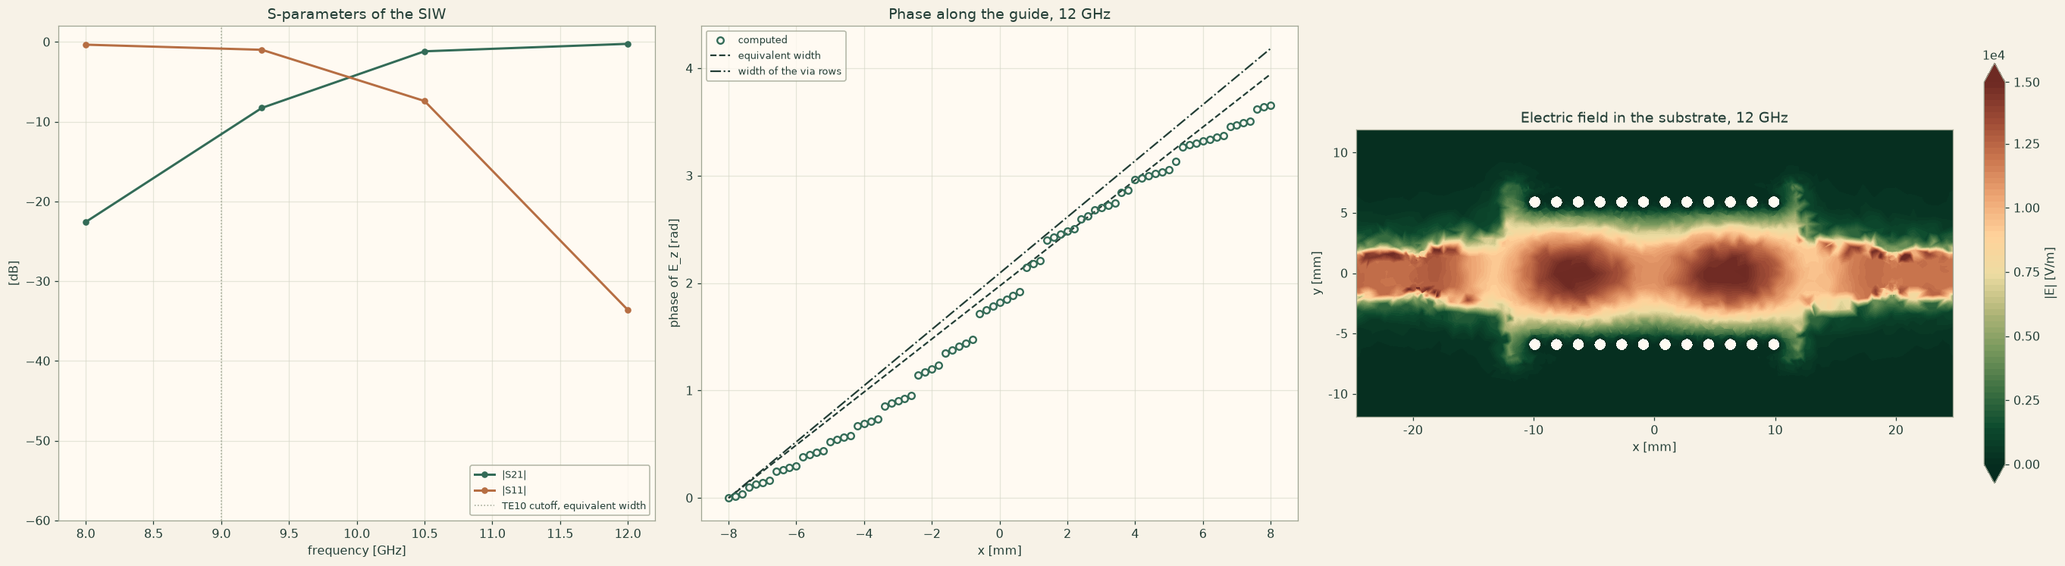
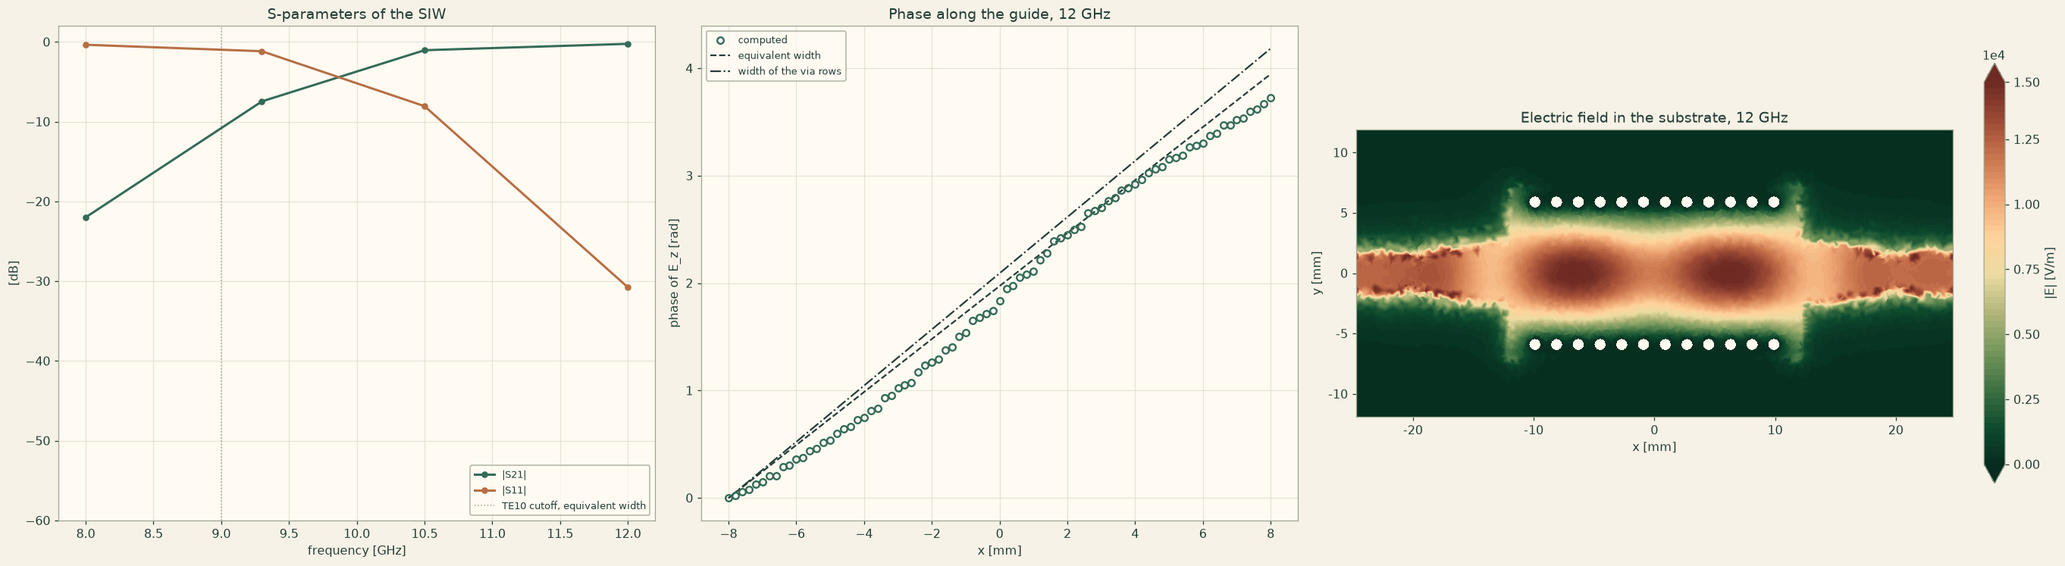
Update the via-fenced waveguide with 94,336 edge coefficients

diff --git a/examples/notebooks/substrate_integrated_waveguide.html b/examples/notebooks/substrate_integrated_waveguide.html
@@ -22,7 +22,7 @@
 <div class="layout">
 <details class="menu"><summary>Menu</summary><nav class="side" aria-label="Documentation"><a class="" href="../../index.html">Overview</a><a class="" href="../../quickstart.html">Quickstart</a><p class="group">Examples</p><a class="" href="../../examples/index.html">Example library</a><a class="" href="../../examples/method-swap.html">One model, five discretizations</a><a class="" href="../../examples/cantilever.html">A 3D cantilever</a><a class="" href="../../examples/custom-equation.html">Your own equation</a><p class="group">Guide</p><p class="part">Start here</p><a class="" href="../../guide/how-to-use-this-guide.html"><span class="num"></span> How to use this guide</a><p class="part">Part I · From model to notebook</p><a class="" href="../../guide/1-set-up-the-notebook.html"><span class="num">1</span> Set up the notebook</a><a class="" href="../../guide/2-transient-radiation-and-vibration.html"><span class="num">2</span> Transient radiation and vibration</a><a class="" href="../../guide/3-three-spatial-studies.html"><span class="num">3</span> Three spatial studies</a><a class="" href="../../guide/4-read-visualize-and-export-results.html"><span class="num">4</span> Read, visualize and export results</a><p class="part">Part II · Physics model selection</p><a class="" href="../../guide/5-build-a-first-case-in-each-physics-package/index.html"><span class="num">5</span> Build a first case in each physics package</a><a class="" href="../../guide/6-worked-physics-and-service-recipes/index.html"><span class="num">6</span> Worked physics and service recipes</a><p class="part">Part III · Select and combine numerical methods</p><a class="" href="../../guide/7-numerical-configuration-and-spatial-operators.html"><span class="num">7</span> Numerical configuration and spatial operators</a><a class="" href="../../guide/8-solvers-time-integration-and-coupled-fields.html"><span class="num">8</span> Solvers, time integration and coupled fields</a><a class="" href="../../guide/9-worked-numerical-comparisons/index.html"><span class="num">9</span> Worked numerical comparisons</a><a class="" href="../../guide/10-executable-numerical-recipes/index.html"><span class="num">10</span> Executable numerical recipes</a><a class="" href="../../guide/11-define-and-solve-your-own-equation.html"><span class="num">11</span> Define and solve your own equation</a><a class="" href="../../guide/12-diagnose-a-notebook-result.html"><span class="num">12</span> Diagnose a notebook result</a><a class="" href="../../guide/13-coverage-and-navigation-by-symbol/index.html"><span class="num">13</span> Coverage and navigation by symbol</a><p class="part">API reference</p><a class="" href="../../reference/a-physics-api-reference/index.html"><span class="num">A</span> Physics API reference</a><a class="" href="../../reference/b-numerical-api-reference/index.html"><span class="num">B</span> Numerical API reference</a><a class="" href="../../reference/c-exposed-operator-and-service-namespaces/index.html"><span class="num">C</span> Exposed operator and service namespaces</a><p class="group">Teaching</p><a class="" href="../../teaching/index.html">For instructors</a><a class="" href="../../teaching/course.html">A 14-week lab course</a><a class="" href="../../teaching/exercises.html">Exercise sheets</a><p class="group">Trust and terms</p><a class="" href="../../verification.html">Verification</a><a class="" href="../../plans.html">Plans and licence</a></nav></details>
 <div class="side-wrap"><nav class="side" aria-label="Documentation"><a class="" href="../../index.html">Overview</a><a class="" href="../../quickstart.html">Quickstart</a><p class="group">Examples</p><a class="" href="../../examples/index.html">Example library</a><a class="" href="../../examples/method-swap.html">One model, five discretizations</a><a class="" href="../../examples/cantilever.html">A 3D cantilever</a><a class="" href="../../examples/custom-equation.html">Your own equation</a><p class="group">Guide</p><p class="part">Start here</p><a class="" href="../../guide/how-to-use-this-guide.html"><span class="num"></span> How to use this guide</a><p class="part">Part I · From model to notebook</p><a class="" href="../../guide/1-set-up-the-notebook.html"><span class="num">1</span> Set up the notebook</a><a class="" href="../../guide/2-transient-radiation-and-vibration.html"><span class="num">2</span> Transient radiation and vibration</a><a class="" href="../../guide/3-three-spatial-studies.html"><span class="num">3</span> Three spatial studies</a><a class="" href="../../guide/4-read-visualize-and-export-results.html"><span class="num">4</span> Read, visualize and export results</a><p class="part">Part II · Physics model selection</p><a class="" href="../../guide/5-build-a-first-case-in-each-physics-package/index.html"><span class="num">5</span> Build a first case in each physics package</a><a class="" href="../../guide/6-worked-physics-and-service-recipes/index.html"><span class="num">6</span> Worked physics and service recipes</a><p class="part">Part III · Select and combine numerical methods</p><a class="" href="../../guide/7-numerical-configuration-and-spatial-operators.html"><span class="num">7</span> Numerical configuration and spatial operators</a><a class="" href="../../guide/8-solvers-time-integration-and-coupled-fields.html"><span class="num">8</span> Solvers, time integration and coupled fields</a><a class="" href="../../guide/9-worked-numerical-comparisons/index.html"><span class="num">9</span> Worked numerical comparisons</a><a class="" href="../../guide/10-executable-numerical-recipes/index.html"><span class="num">10</span> Executable numerical recipes</a><a class="" href="../../guide/11-define-and-solve-your-own-equation.html"><span class="num">11</span> Define and solve your own equation</a><a class="" href="../../guide/12-diagnose-a-notebook-result.html"><span class="num">12</span> Diagnose a notebook result</a><a class="" href="../../guide/13-coverage-and-navigation-by-symbol/index.html"><span class="num">13</span> Coverage and navigation by symbol</a><p class="part">API reference</p><a class="" href="../../reference/a-physics-api-reference/index.html"><span class="num">A</span> Physics API reference</a><a class="" href="../../reference/b-numerical-api-reference/index.html"><span class="num">B</span> Numerical API reference</a><a class="" href="../../reference/c-exposed-operator-and-service-namespaces/index.html"><span class="num">C</span> Exposed operator and service namespaces</a><p class="group">Teaching</p><a class="" href="../../teaching/index.html">For instructors</a><a class="" href="../../teaching/course.html">A 14-week lab course</a><a class="" href="../../teaching/exercises.html">Exercise sheets</a><p class="group">Trust and terms</p><a class="" href="../../verification.html">Verification</a><a class="" href="../../plans.html">Plans and licence</a></nav></div>
-<main id="content"><p class="crumbs"><a href="../../index.html">Docs</a> › <a href="../../examples/index.html">Examples</a> › A waveguide built into a circuit board</p><p class="eyebrow">Microwave engineering · 3D</p><h1>A waveguide built into a circuit board</h1><p class="lead">Two rows of plated vias guide a microwave signal through the board. Measure the signal on either side of cutoff and inspect its phase inside the guide.</p><div class="chips"><span>STEP import</span><span>Via fence</span><span>Nédélec elements</span><span>TEM ports</span></div><p class="note"><strong>Run locally with OneSimulation.</strong> The example downloads are free. Running them requires an activated runtime. Runtime Alpha 0.2.1a8 · CPython 3.13 on macOS (Apple Silicon), Ubuntu 22.04 (x86-64), and Windows x64. <a href="../../quickstart.html#need">Installation and activation</a> · <a href="../../plans.html">View pilot plans</a>. <a href="../../verification.html#scope">Scope of the reference checks</a>.</p><div class="button-row"><a class="button" href="../../notebooks/substrate_integrated_waveguide.ipynb" download>Download the notebook (.ipynb)</a><a class="button light" href="../../notebooks/substrate_integrated_waveguide.py" download>Download the script (.py)</a><a class="button light" href="../../notebooks/substrate_integrated_waveguide.step" download>Download the geometry (.step)</a><a class="button light" href="../../notebooks/substrate_integrated_waveguide_geometry.py" download>Download the geometry script (.py)</a></div><figure><a href="../../figures/library/substrate_integrated_waveguide.png" aria-label="Open result plot for A waveguide built into a circuit board at full size" style="display:inline-block;max-width:100%;cursor:zoom-in"><img loading="lazy" src="../../figures/library/substrate_integrated_waveguide.png" alt="A waveguide built into a circuit board"></a><figcaption>A waveguide built into a circuit board. Run the notebook to produce its own figures.</figcaption></figure><h2 id="what">What it computes</h2><p>A three-dimensional Maxwell model resolves the substrate, the microstrip tapers and the vias with conducting walls. Two ports measure reflection and transmission. A midplane slice shows the electric field at 12 GHz. The script that builds the STEP files comes with the notebook.</p><h2 id="checks">What it checks</h2><p>The equivalent rectangular guide predicts cutoff at 9.003 GHz. Transmission rises from −22.57 dB at 8 GHz to −0.23 dB at 12 GHz. The computed phase slope at 12 GHz is 251.0 rad/m against 246.6 rad/m from the equivalent-width formula, a difference of 1.8 %.</p><h2 id="geometry">Geometry</h2><p>The notebook starts at the import of the CAD files <a href="../../notebooks/substrate_integrated_waveguide.step" download><code>substrate_integrated_waveguide.step</code></a>, <a href="../../notebooks/substrate_integrated_waveguide_copper.step" download><code>substrate_integrated_waveguide_copper.step</code></a>, <a href="../../notebooks/substrate_integrated_waveguide_substrate.step" download><code>substrate_integrated_waveguide_substrate.step</code></a>, <a href="../../notebooks/substrate_integrated_waveguide_vias.step" download><code>substrate_integrated_waveguide_vias.step</code></a>: STEP (AP242), readable by any CAD program, with the names of the faces that the boundary conditions use. Put them next to the notebook.</p><figure><a href="../../figures/library/substrate_integrated_waveguide_geometry.png" aria-label="Open geometry for A waveguide built into a circuit board at full size" style="display:inline-block;max-width:100%;cursor:zoom-in"><img loading="lazy" src="../../figures/library/substrate_integrated_waveguide_geometry.png" alt="Geometry of the example: A waveguide built into a circuit board"></a><figcaption>The geometry as the notebook reads it from the STEP file and draws it.</figcaption></figure><div class="button-row"><a class="button light" href="../../notebooks/substrate_integrated_waveguide.step" download>Download the geometry (.step)</a><a class="button light" href="../../notebooks/substrate_integrated_waveguide_copper.step" download>Download the part copper (.step)</a><a class="button light" href="../../notebooks/substrate_integrated_waveguide_substrate.step" download>Download the part substrate (.step)</a><a class="button light" href="../../notebooks/substrate_integrated_waveguide_vias.step" download>Download the part vias (.step)</a><a class="button light" href="../../notebooks/substrate_integrated_waveguide_geometry.py" download>Download the geometry script (.py)</a></div><h3 id="geometry-script">The geometry script</h3><p>The script <a href="../../notebooks/substrate_integrated_waveguide_geometry.py" download><code>substrate_integrated_waveguide_geometry.py</code></a> builds the geometry with the CAD objects of OneSimulation and writes the files. Change a dimension there, run it, and run the notebook again.</p><div class="notebook"><div class="nb-code"><pre class="code" data-lang="python"><code><span class="sd">&quot;&quot;&quot;Geometry of the OneSimulation example &quot;Substrate integrated waveguide&quot;.</span>
+<main id="content"><p class="crumbs"><a href="../../index.html">Docs</a> › <a href="../../examples/index.html">Examples</a> › A waveguide built into a circuit board</p><p class="eyebrow">Microwave engineering · 3D</p><h1>A waveguide built into a circuit board</h1><p class="lead">Two rows of plated vias guide a microwave signal through the board. Measure the signal on either side of cutoff and inspect its phase inside the guide.</p><div class="chips"><span>STEP import</span><span>Via fence</span><span>Nédélec elements</span><span>TEM ports</span></div><p class="note"><strong>Run locally with OneSimulation.</strong> The example downloads are free. Running them requires an activated runtime. Runtime Alpha 0.2.1a8 · CPython 3.13 on macOS (Apple Silicon), Ubuntu 22.04 (x86-64), and Windows x64. <a href="../../quickstart.html#need">Installation and activation</a> · <a href="../../plans.html">View pilot plans</a>. <a href="../../verification.html#scope">Scope of the reference checks</a>.</p><div class="button-row"><a class="button" href="../../notebooks/substrate_integrated_waveguide.ipynb" download>Download the notebook (.ipynb)</a><a class="button light" href="../../notebooks/substrate_integrated_waveguide.py" download>Download the script (.py)</a><a class="button light" href="../../notebooks/substrate_integrated_waveguide.step" download>Download the geometry (.step)</a><a class="button light" href="../../notebooks/substrate_integrated_waveguide_geometry.py" download>Download the geometry script (.py)</a></div><figure><a href="../../figures/library/substrate_integrated_waveguide.png" aria-label="Open result plot for A waveguide built into a circuit board at full size" style="display:inline-block;max-width:100%;cursor:zoom-in"><img loading="lazy" src="../../figures/library/substrate_integrated_waveguide.png" alt="A waveguide built into a circuit board"></a><figcaption>A waveguide built into a circuit board. Run the notebook to produce its own figures.</figcaption></figure><h2 id="what">What it computes</h2><p>A three-dimensional Maxwell model resolves the substrate, the microstrip tapers and the vias with conducting walls. Two ports measure reflection and transmission. A midplane slice shows the electric field at 12 GHz. The script that builds the STEP files comes with the notebook.</p><h2 id="checks">What it checks</h2><p>Refinement from 38,395 to 73,139 tetrahedra (8,062 to 15,318 vertices) brings the calculated phase constant at 12 GHz from 251.0 to 249.7 rad/m, within 1.2 % of the equivalent-width prediction of 246.6 rad/m. With a predicted cutoff of 9.003 GHz, transmission rises from −21.98 dB at 8 GHz to −0.23 dB at 12 GHz.</p><h2 id="geometry">Geometry</h2><p>Save the STEP files <a href="../../notebooks/substrate_integrated_waveguide.step" download><code>substrate_integrated_waveguide.step</code></a>, <a href="../../notebooks/substrate_integrated_waveguide_copper.step" download><code>substrate_integrated_waveguide_copper.step</code></a>, <a href="../../notebooks/substrate_integrated_waveguide_substrate.step" download><code>substrate_integrated_waveguide_substrate.step</code></a>, <a href="../../notebooks/substrate_integrated_waveguide_vias.step" download><code>substrate_integrated_waveguide_vias.step</code></a> next to the notebook before running it.</p><figure><a href="../../figures/library/substrate_integrated_waveguide_geometry.png" aria-label="Open geometry for A waveguide built into a circuit board at full size" style="display:inline-block;max-width:100%;cursor:zoom-in"><img loading="lazy" src="../../figures/library/substrate_integrated_waveguide_geometry.png" alt="Geometry of the example: A waveguide built into a circuit board"></a><figcaption>Geometry used by the notebook.</figcaption></figure><div class="button-row"><a class="button light" href="../../notebooks/substrate_integrated_waveguide.step" download>Download the geometry (.step)</a><a class="button light" href="../../notebooks/substrate_integrated_waveguide_copper.step" download>Download the part copper (.step)</a><a class="button light" href="../../notebooks/substrate_integrated_waveguide_substrate.step" download>Download the part substrate (.step)</a><a class="button light" href="../../notebooks/substrate_integrated_waveguide_vias.step" download>Download the part vias (.step)</a><a class="button light" href="../../notebooks/substrate_integrated_waveguide_geometry.py" download>Download the geometry script (.py)</a></div><h3 id="geometry-script">The geometry script</h3><p>The script <a href="../../notebooks/substrate_integrated_waveguide_geometry.py" download><code>substrate_integrated_waveguide_geometry.py</code></a> builds the geometry with the CAD objects of OneSimulation and writes the files. Change a dimension there, run it, and run the notebook again.</p><div class="notebook"><div class="nb-code"><pre class="code" data-lang="python"><code><span class="sd">&quot;&quot;&quot;Geometry of the OneSimulation example &quot;Substrate integrated waveguide&quot;.</span>
 
 <span class="sd">Builds with the CAD objects of OneSimulation a substrate integrated waveguide (SIW) on a 0.787 mm</span>
 <span class="sd">substrate of relative permittivity 2.2: two rows of 12 plated vias (diameter 1.0 mm, pitch 1.8 mm,</span>
@@ -100,14 +100,15 @@
 
 <span class="n">light</span><span class="p">,</span> <span class="n">eta0</span> <span class="o">=</span> <span class="mi">1</span> <span class="o">/</span> <span class="n">np</span><span class="o">.</span><span class="n">sqrt</span><span class="p">(</span><span class="n">VACUUM_PERMEABILITY</span> <span class="o">*</span> <span class="n">VACUUM_PERMITTIVITY</span><span class="p">),</span> <span class="n">np</span><span class="o">.</span><span class="n">sqrt</span><span class="p">(</span><span class="n">VACUUM_PERMEABILITY</span> <span class="o">/</span> <span class="n">VACUUM_PERMITTIVITY</span><span class="p">)</span>
 <span class="n">rows</span><span class="p">,</span> <span class="n">diameter</span><span class="p">,</span> <span class="n">pitch</span><span class="p">,</span> <span class="n">permittivity</span><span class="p">,</span> <span class="n">height</span> <span class="o">=</span> <span class="mf">11.81e-3</span><span class="p">,</span> <span class="mf">1.0e-3</span><span class="p">,</span> <span class="mf">1.8e-3</span><span class="p">,</span> <span class="mf">2.2</span><span class="p">,</span> <span class="mf">0.787e-3</span></code></pre></div><div class="nb-md"><h4>Geometry and mesh</h4>
-<p><code>load</code> reads the air with the vias removed, the substrate and the thin layer shaped like the top copper; substrate and layer become regions of one mesh. Tetrahedra of 2 mm follow the copper, 2.5 mm the substrate, 0.5 mm the vias and 4 mm the air.</p></div><div class="nb-code"><pre class="code" data-lang="python"><code><span class="n">air</span> <span class="o">=</span> <span class="n">load</span><span class="p">(</span><span class="s2">&quot;substrate_integrated_waveguide.step&quot;</span><span class="p">)</span>
+<p><code>load</code> reads the air with the vias removed, the substrate and the thin layer shaped like the top copper; substrate and layer become regions of one mesh. Mesh targets are 0.7 mm at the copper, 0.8 mm in the substrate, 0.22 mm at the vias and 1.3 mm in air. This increases the mesh from 38,395 to 73,139 tetrahedra and from 8,062 to 15,318 vertices.</p></div><div class="nb-code"><pre class="code" data-lang="python"><code><span class="n">air</span> <span class="o">=</span> <span class="n">load</span><span class="p">(</span><span class="s2">&quot;substrate_integrated_waveguide.step&quot;</span><span class="p">)</span>
 <span class="n">substrate</span> <span class="o">=</span> <span class="n">load</span><span class="p">(</span><span class="s2">&quot;substrate_integrated_waveguide_substrate.step&quot;</span><span class="p">)</span><span class="o">.</span><span class="n">named</span><span class="p">(</span><span class="s2">&quot;substrate&quot;</span><span class="p">)</span>
 <span class="n">copper</span> <span class="o">=</span> <span class="n">load</span><span class="p">(</span><span class="s2">&quot;substrate_integrated_waveguide_copper.step&quot;</span><span class="p">)</span><span class="o">.</span><span class="n">named</span><span class="p">(</span><span class="s2">&quot;copper&quot;</span><span class="p">)</span>
 <span class="n">faces</span> <span class="o">=</span> <span class="n">air</span><span class="o">.</span><span class="n">boundaries</span>
-<span class="n">mesh</span> <span class="o">=</span> <span class="n">TetrahedralMesher</span><span class="p">(</span><span class="n">target_size</span><span class="o">=</span><span class="mf">4e-3</span><span class="p">,</span> <span class="n">embedded_regions</span><span class="o">=</span><span class="p">(</span><span class="n">substrate</span><span class="p">,</span> <span class="n">copper</span><span class="p">),</span> <span class="n">refinements</span><span class="o">=</span><span class="p">(</span>
-    <span class="n">LocalRefinement</span><span class="p">(</span><span class="n">region</span><span class="o">=</span><span class="n">copper</span><span class="p">,</span> <span class="n">target_size</span><span class="o">=</span><span class="mf">2.0e-3</span><span class="p">),</span> <span class="n">LocalRefinement</span><span class="p">(</span><span class="n">region</span><span class="o">=</span><span class="n">substrate</span><span class="p">,</span> <span class="n">target_size</span><span class="o">=</span><span class="mf">2.5e-3</span><span class="p">),</span>
-    <span class="n">LocalRefinement</span><span class="p">(</span><span class="n">region</span><span class="o">=</span><span class="n">faces</span><span class="o">.</span><span class="n">vias</span><span class="p">,</span> <span class="n">target_size</span><span class="o">=</span><span class="mf">0.5e-3</span><span class="p">)))</span><span class="o">.</span><span class="n">generate</span><span class="p">(</span><span class="n">air</span><span class="p">)</span>
+<span class="n">mesh</span> <span class="o">=</span> <span class="n">TetrahedralMesher</span><span class="p">(</span><span class="n">target_size</span><span class="o">=</span><span class="mf">1.3e-3</span><span class="p">,</span> <span class="n">embedded_regions</span><span class="o">=</span><span class="p">(</span><span class="n">substrate</span><span class="p">,</span> <span class="n">copper</span><span class="p">),</span> <span class="n">refinements</span><span class="o">=</span><span class="p">(</span>
+    <span class="n">LocalRefinement</span><span class="p">(</span><span class="n">region</span><span class="o">=</span><span class="n">copper</span><span class="p">,</span> <span class="n">target_size</span><span class="o">=</span><span class="mf">0.7e-3</span><span class="p">),</span> <span class="n">LocalRefinement</span><span class="p">(</span><span class="n">region</span><span class="o">=</span><span class="n">substrate</span><span class="p">,</span> <span class="n">target_size</span><span class="o">=</span><span class="mf">0.8e-3</span><span class="p">),</span>
+    <span class="n">LocalRefinement</span><span class="p">(</span><span class="n">region</span><span class="o">=</span><span class="n">faces</span><span class="o">.</span><span class="n">vias</span><span class="p">,</span> <span class="n">target_size</span><span class="o">=</span><span class="mf">0.22e-3</span><span class="p">)))</span><span class="o">.</span><span class="n">generate</span><span class="p">(</span><span class="n">air</span><span class="p">)</span>
 <span class="n">sheet</span> <span class="o">=</span> <span class="n">region_interface</span><span class="p">(</span><span class="n">mesh</span><span class="p">,</span> <span class="n">copper</span><span class="p">,</span> <span class="n">substrate</span><span class="p">)</span>
+<span class="nb">print</span><span class="p">(</span><span class="sa">f</span><span class="s2">&quot;Mesh: </span><span class="si">{</span><span class="n">mesh</span><span class="o">.</span><span class="n">cell_count</span><span class="si">:</span><span class="s2">,</span><span class="si">}</span><span class="s2"> tetrahedra, </span><span class="si">{</span><span class="nb">len</span><span class="p">(</span><span class="n">mesh</span><span class="o">.</span><span class="n">coordinates</span><span class="p">)</span><span class="si">:</span><span class="s2">,</span><span class="si">}</span><span class="s2"> vertices&quot;</span><span class="p">)</span>
 
 <span class="n">view</span> <span class="o">=</span> <span class="n">plots</span><span class="o">.</span><span class="n">Camera</span><span class="p">(</span><span class="n">elevation</span><span class="o">=</span><span class="mi">40</span><span class="p">,</span> <span class="n">azimuth</span><span class="o">=-</span><span class="mi">60</span><span class="p">)</span>
 <span class="n">fig</span> <span class="o">=</span> <span class="n">plots</span><span class="o">.</span><span class="n">figure</span><span class="p">(</span><span class="mi">1</span><span class="p">,</span> <span class="mi">2</span><span class="p">,</span> <span class="n">size</span><span class="o">=</span><span class="p">(</span><span class="mi">14</span><span class="p">,</span> <span class="mi">6</span><span class="p">))</span>

diff --git a/notebooks/substrate_integrated_waveguide.py b/notebooks/substrate_integrated_waveguide.py
@@ -67,17 +67,17 @@ rows, diameter, pitch, permittivity, height = 11.81e-3, 1.0e-3, 1.8e-3, 2.2, 0.7
 # ## Geometry and mesh
 #
 # `load` reads the air with the vias removed, the substrate and the thin layer shaped like the top
-# copper; substrate and layer become regions of one mesh. Tetrahedra of 2 mm follow
-# the copper, 2.5 mm the substrate, 0.5 mm the vias and 4 mm the air.
+# copper; substrate and layer become regions of one mesh. Mesh targets are 0.7 mm at the copper, 0.8 mm in the substrate, 0.22 mm at the vias and 1.3 mm in air. This increases the mesh from 38,395 to 73,139 tetrahedra and from 8,062 to 15,318 vertices.
 
 air = load("substrate_integrated_waveguide.step")
 substrate = load("substrate_integrated_waveguide_substrate.step").named("substrate")
 copper = load("substrate_integrated_waveguide_copper.step").named("copper")
 faces = air.boundaries
-mesh = TetrahedralMesher(target_size=4e-3, embedded_regions=(substrate, copper), refinements=(
-    LocalRefinement(region=copper, target_size=2.0e-3), LocalRefinement(region=substrate, target_size=2.5e-3),
-    LocalRefinement(region=faces.vias, target_size=0.5e-3))).generate(air)
+mesh = TetrahedralMesher(target_size=1.3e-3, embedded_regions=(substrate, copper), refinements=(
+    LocalRefinement(region=copper, target_size=0.7e-3), LocalRefinement(region=substrate, target_size=0.8e-3),
+    LocalRefinement(region=faces.vias, target_size=0.22e-3))).generate(air)
 sheet = region_interface(mesh, copper, substrate)
+print(f"Mesh: {mesh.cell_count:,} tetrahedra, {len(mesh.coordinates):,} vertices")
 
 view = plots.Camera(elevation=40, azimuth=-60)
 fig = plots.figure(1, 2, size=(14, 6))
